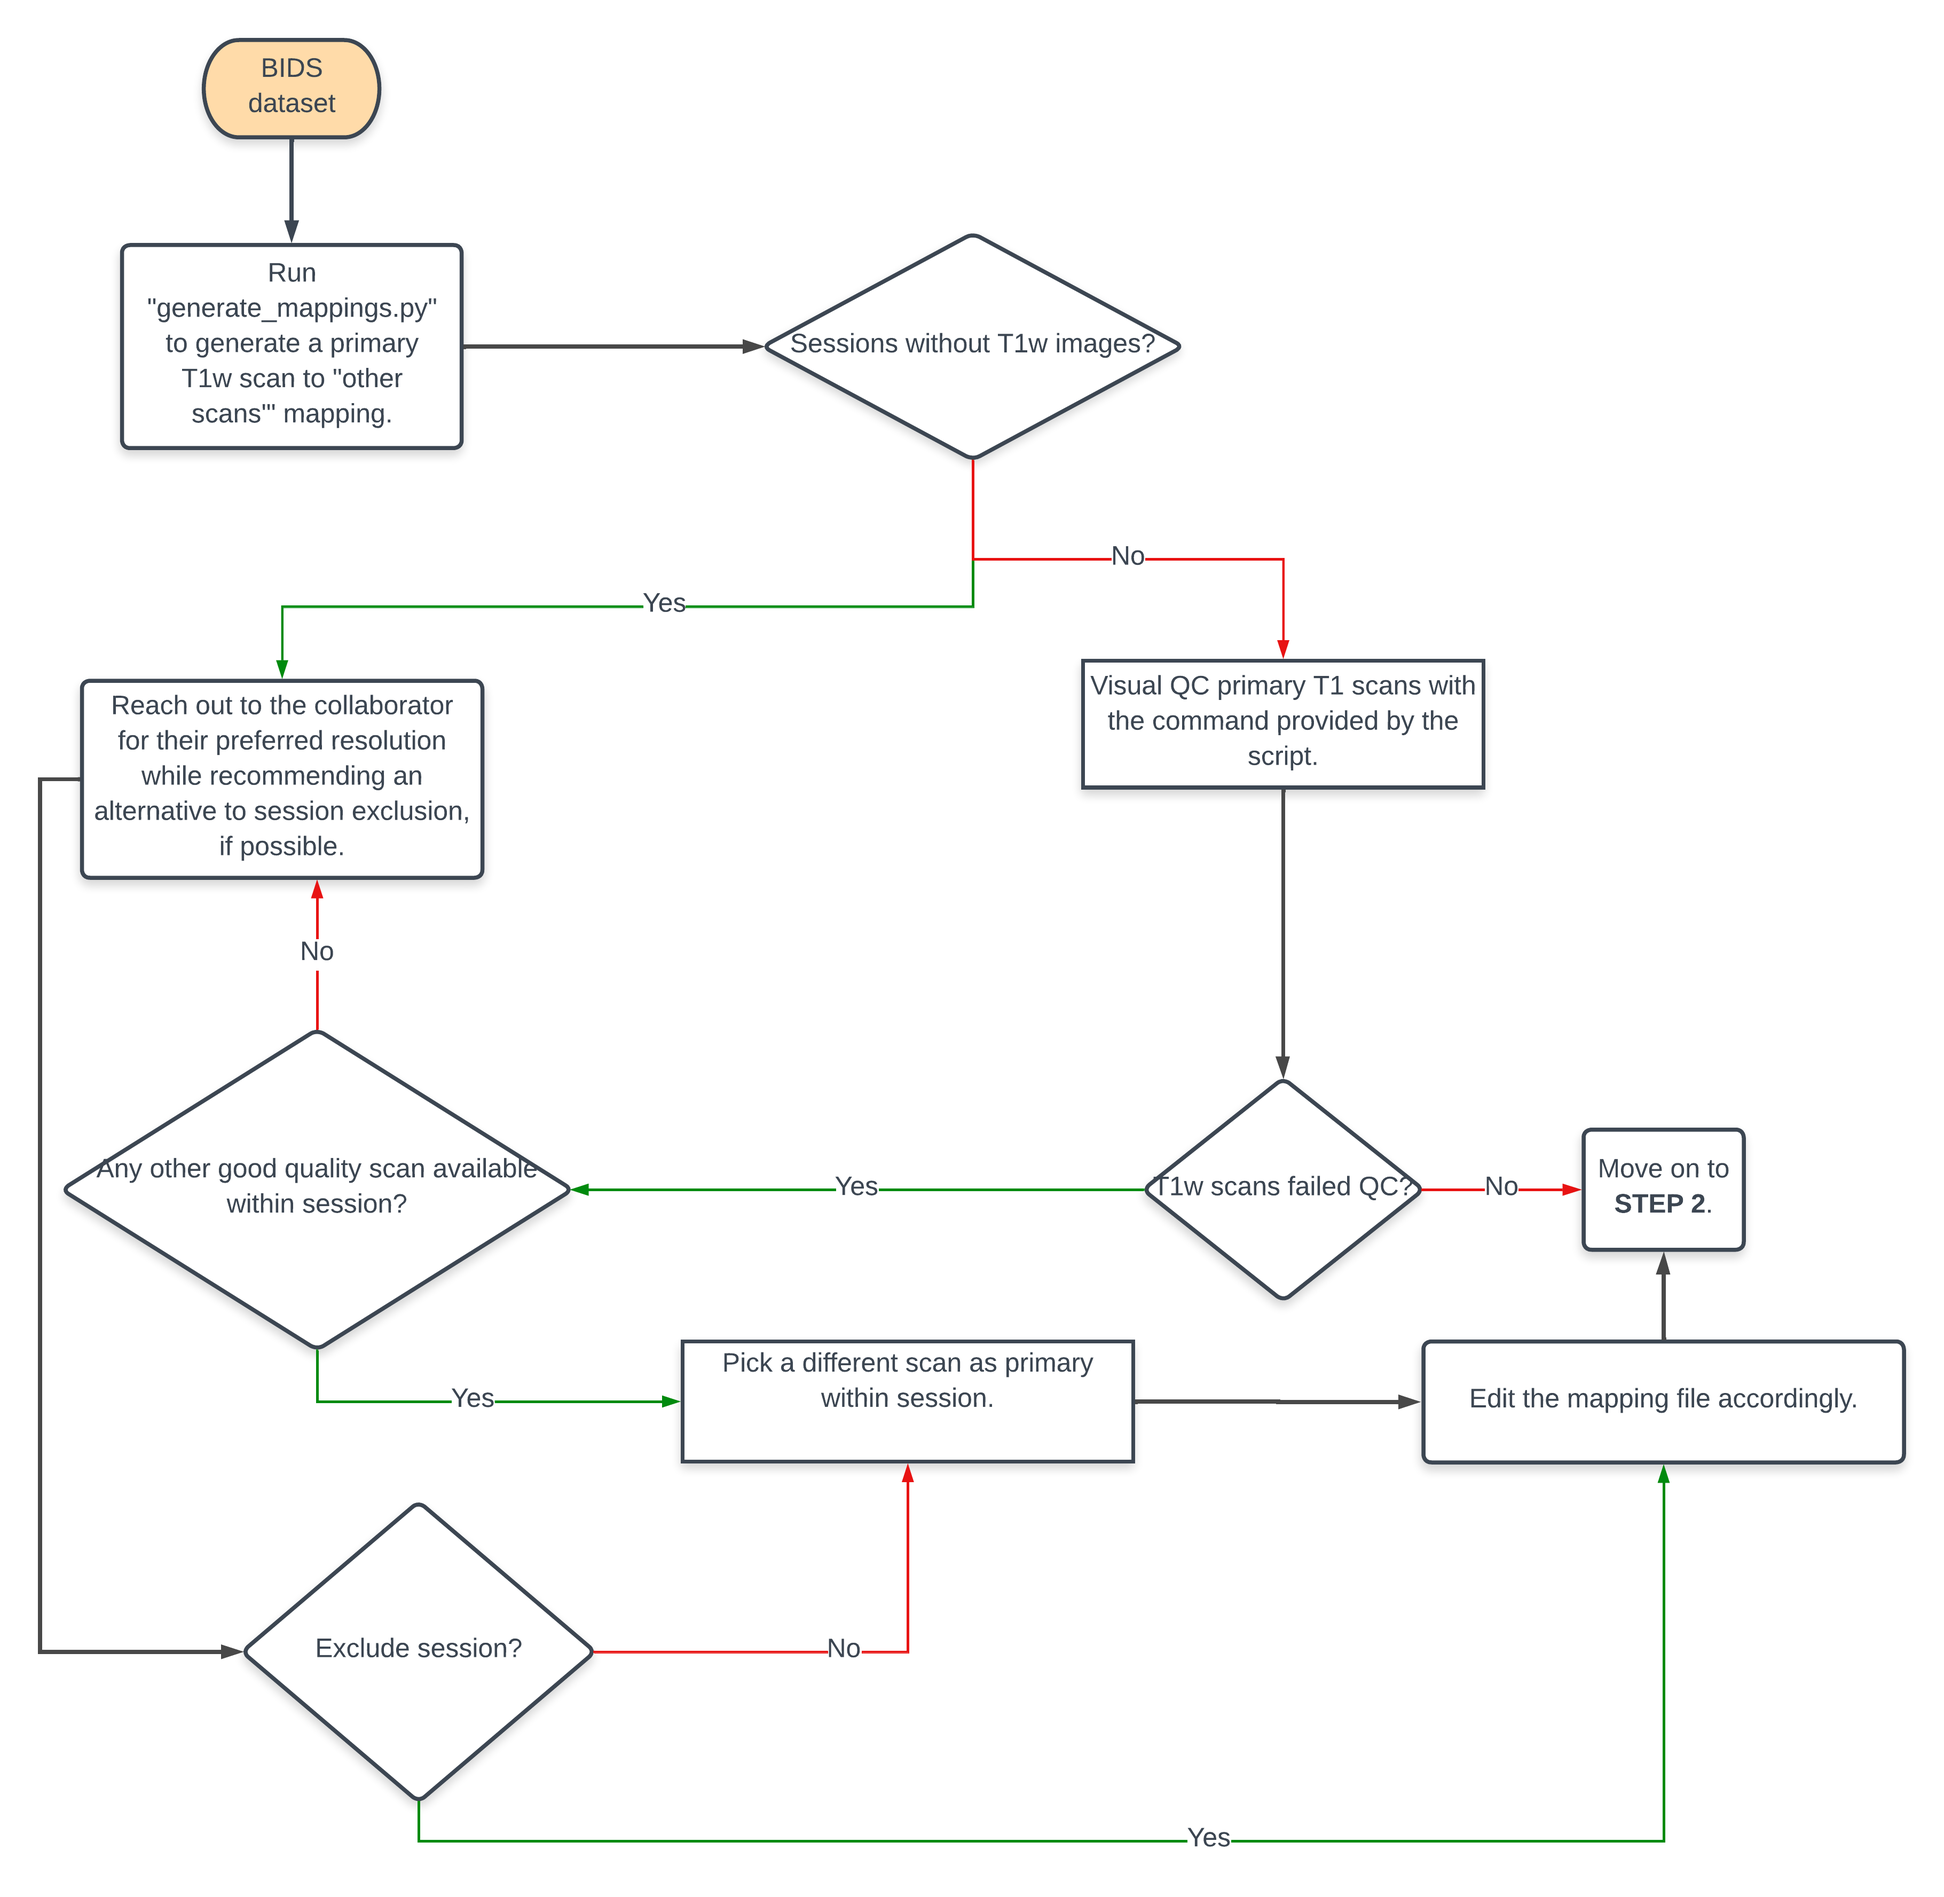
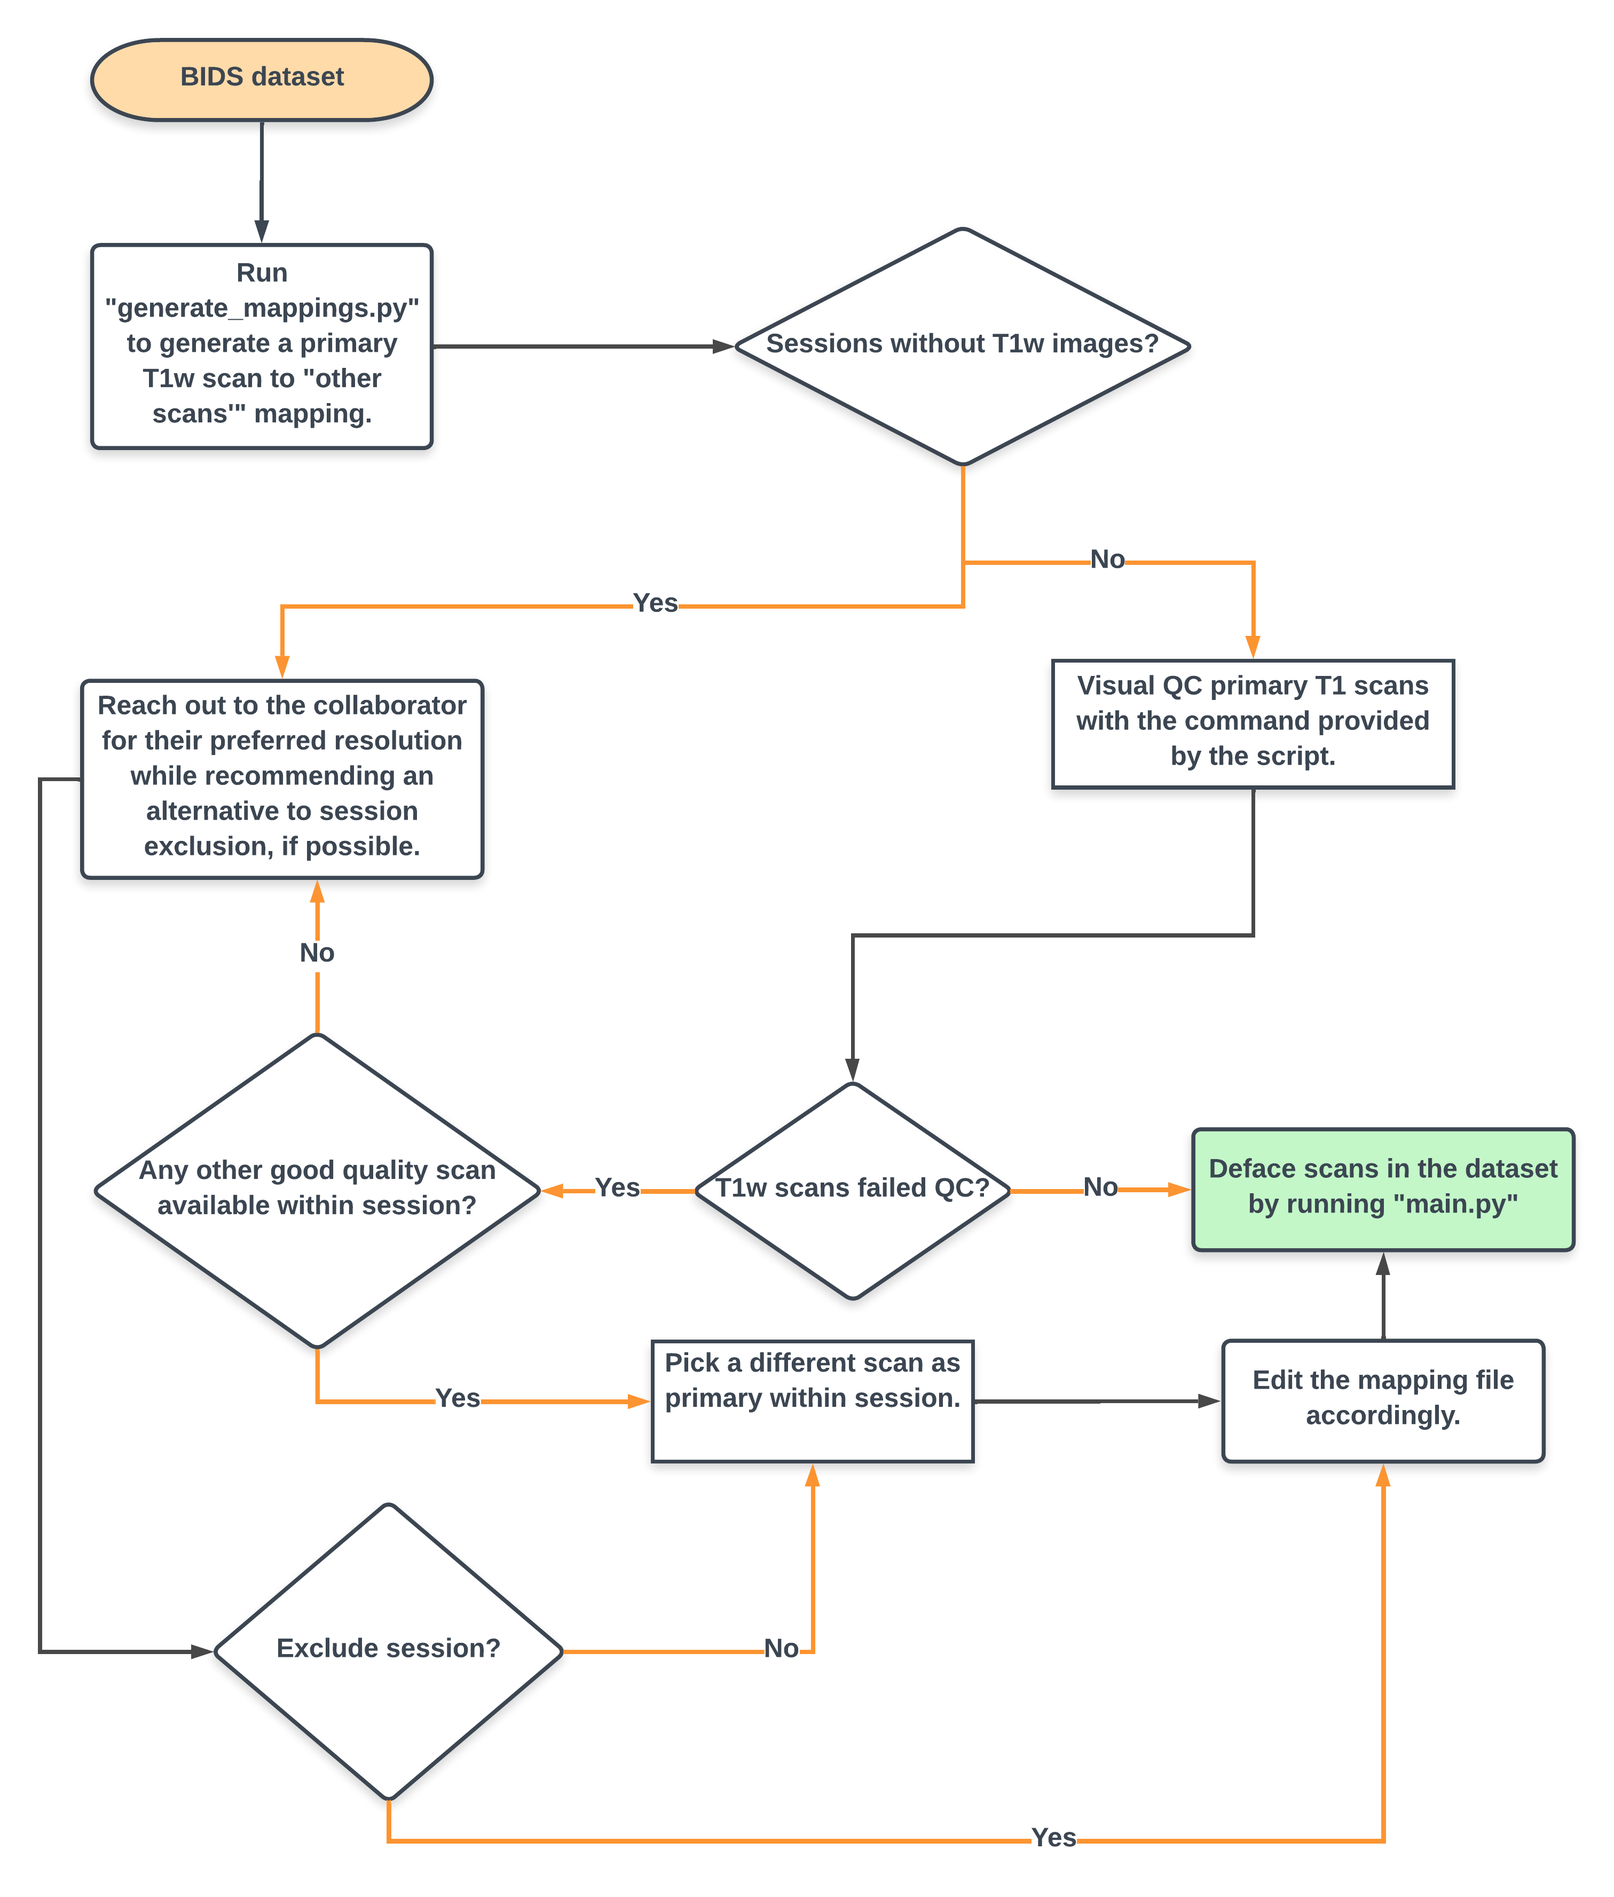
readme update

diff --git a/README.md b/README.md
@@ -1,133 +1,92 @@
 # DSST Defacing Workflow
 
-## Workflow Diagram
+The defacing workflow for datasets curated by the Data Science and Sharing Team will be completed in three major steps.
 
-### STEP 1
+1. Determine "primary" scans for each session in the dataset and ensure that they are good quality images.
+2. Deface primary scans
+   with [@afni_refacer_run](https://afni.nimh.nih.gov/pub/dist/doc/htmldoc/tutorials/refacer/refacer_run.html) program
+   developed by the AFNI Team. To deface remaining scans in the session, register them to the primary scan and use
+   it's defacemask to generate a defaced image.
+3. Visually QC defaced scans. For scans that fail QC, figure out how to fix them and if they can't be fixed, consider
+   excluding the scan from the dataset. @TODO Need a more specific SoP of sorts for this step.
+
+**NOTE:** It's assumed throughout this document that the input dataset to defacing algorithm is in BIDS valid format.
+
+## Terminology
+
+- **Primary Scan:** The best quality T1w scan within a session. For programmatic selection, we assume that the most
+  recently acquired T1w scan is of the best quality.
+- **Other/Secondary Scans:** All scans *except* the primary scan are grouped together and referred to as "other" or "
+  secondary" scans for a given session.
+- **[VisualQC](https://raamana.github.io/visualqc):** A suite of QC tools developed by Pradeep Ramanna, an associate
+  Professor at
+  University of Pittsburgh. While a noun, it's sometimes also used as a verb to refer to "QC-ing scans visually". Within
+  the team, a sentence like "We'll be Visual QC-ing primary scans." means that we'll eyeball-ing the primary scans using
+  VisualQC.
+
+## Workflow
+
+### STEP 1: Generate and finalize "primary" scans to "other" scans mapping file.
+
+The time and effort required to complete this step is highly dependent on the dataset. For example, some factors it
+might depend on are:
+
+1. Do all sessions within the dataset have a T1w scan associated with them? It might require a bit of back and forth
+   with the collaborator to figure how to deal with sessions without a T1w scan.
+2. What's the general quality of acquired scans? Might depend on the scanner used, age group of participants (children
+   might be prone to more head motion in the scanner than adults), QA/QC practices during acquisition, etc.
+
+Here's a flow chart of what this process might look like.
+
 ![Generate and finalize "primary" scans to "other" scans mapping file.](images/generate_mappings.png)
 
-1. Run [@afni_refacer_run](https://afni.nimh.nih.gov/pub/dist/doc/htmldoc/tutorials/refacer/refacer_run.html) on **a T1w scan per subject** of a given dataset. 
-2. [VisualQC](https://raamana.github.io/visualqc/gallery_defacing.html) defaced T1 images and correct/flag any that fail the QC Criteria. 
-3. Register other **T1w and non-T1w scans** of each subject to the T1w image in step 1 and apply its defacemask to the remaining scans. 
-4. QC the scans from 3 using [VisualQC Align](https://raamana.github.io/visualqc/gallery_defacing.html)
+**STEP 1 usage notes**
 
-## Instructions
-
-**Step 1:** Run `01_defacing_cmds_prep.py`
-Usage:
 ```bash
-python 01_defacing_cmds_prep.py -i <path/to/input/bids/dataset> -o <path/to/output/directory>
-```
-The script requires two arguments:
-  1. `-i/--input` Path to BIDS format dataset.
-  2. `-o/--output` Path to output directory where the defaced scans will be stored. 
-
-and outputs three files at `{OUTPUT_DIR}/script_outputs/`
-  1. a `.swarm` file named `defacing_commands_{INPUT_DIRNAME}.swarm` with commands to deface T1w scans using @afni_refacer_run
-  2. a `missing_t1.txt` file that lists subject-sessions that don't have an associated T1w scan.
-  3. a `primary_t1s_to_non-t1s_mapping.json` mapping file that maps each subject and session with their primary T1w scan and
-  a list of other T1w runs and non T1w scans. 
-     - **"primary_t1"** is a T1w scan within the subject's session that's defaced with @afni_refacer_run.
-     - **"other_scans"** refers to all other scans in the subject's session's `anat` directory apart from the T1 above. 
-  Here's an example:
-  ```json
-{
-  "sub-A": {
-    "ses-01": {
-      "primary_t1": "sub-A_ses-01_run-1_T1w.nii.gz",
-      "other_scans": [
-        "sub-A_ses-01_acq-axlowres_run-01_T2w.nii.gz",
-        "sub-A_ses-01_acq-axlowres_run-01_PDw.nii.gz"]
-    },
-    "ses-02": {
-      "primary_t1": "sub-A_ses-02_run-01_T1w.nii.gz",
-      "other_scans": [
-        "sub-A_ses-02_acq-axlowres_run-01_T2w.nii.gz",
-        "sub-A_ses-02_acq-axlowres_run-01_FLAIR.nii.gz"]
-    }
-  }
-}
 ```
 
-**Step 2:** Run `02_registration_and_masking_cmds_prep.py`
+### STEP 2: Actually deface scans.
 
-Usage:
+At this point, a big chunk of the job is done. Run `main.py` script that calls on `deface.py` and `register.py` to
+deface scans in the dataset.
+
+**STEP 2 usage notes**
+
 ```bash
-python 02_registration_and_masking_cmds_prep.py -i <path/to/input/bids/dataset> -o <path/to/output/directory> --mapping-file <path/to/json/file/mapping/primary/t1/to/other/scans>
 ```
 
-The script requires two arguments:
-1. `-i/--input` Path to BIDS format dataset.
-2. `-o/--output` Path to output directory where the defaced scans will be stored.
-3. `--mapping-file` Path to JSON file that maps 'primary T1s' to 'other scans'.
+### STEP 3: Visually QC defaced scans.
 
-and outputs two files at `{OUTPUT_DIR}/script_outputs/`
-1. a `.swarm` file named `registration_masking_commands_{INPUT_DIRNAME}.swarm` that contains commands to register "other_scans" to their respective "primary_t1" and apply primary_t1's defacemask to the registered scans using FSL tools.
-2. a `missing_afni_workdir.txt` file that lists "primary_t1" scans that (for whatever reason) failed to be defaced afni refacer run.
+**STEP 3 usage notes**
 
-**Step 3:** Generate 3D renders for VisualQC.
-
-@TODO
-- [ ] Add screenshots of visual qc deface as examples of the screen view. [Arsh]
-- [ ] Detail how to use 03_vqc_generate_renders script. [Arsh]
-- [ ] An example afni_workdir directory tree after generating renders. [Arsh]
-- [ ] Explain the Visual QC deface command and it's components. [Eric]
-- [ ] Similarly for Visual QC Align [Eric]
-
-## VisualQC Deface Prep Commands
-
-Following is a list of useful commands that were used in the process of defacing.
-
-  - **`fsleyes render`**
-
-      Offers more flexibility compared to `fsl_gen_3D`. 
-    
-      ```bash 
-      fsleyes render --scene 3d --rot 45 0 90 --outfile ${OUT}.png ${INPUT}.nii.gz -dr 30 250 -cr 30 500 -in spline -bf 0.225 -r 100 -ns 500
-      ```
-
-- **Resampling**
-
-    Anisotropic images were resampled to 1mm isotropic images to improve VisualQC's display. This is temporary fix while matplotlib's display issues can be resolved.
-
-    ```bash
-    for i in `cat as_visualqc_arsh.txt`; do 
-     for j in `ls $i/{tmp.00.INPUT.nii,tmp.99.result.deface.nii}`; do 
-      INPUT=$j; 
-      OUTPUT=$(echo $j | sed "s|.nii|_iso_1mm|g"); 
-      flirt -interp nearestneighbour -in ${INPUT} -ref ${INPUT} -applyisoxfm 1 -out ${OUTPUT}; 
-     done; 
-    done;
-    ```
-
-- **Launching VisualQC**
-
-    An example command to setup visualqc deface for autism subtypes dataset
-    ```bash
-    vqcdeface -u /data/NIMH_scratch/defacing_comparisons/autism_subtypes/defacing_outputs \
-    -m tmp.00.INPUT_iso_1mm.nii.gz -d tmp.99.result.deface_iso_1mm.nii.gz \
-    -r tmp.99.result.deface_iso_1mm_render \
-    -o visualqc -i as_visualqc_arsh.txt
-    ```
+```bash
+```
 
 ## Meeting Notes
-Links to documents used to jot down our thoughts/ideas in the process of testing various tools and procedures 
+
+Links to documents used to jot down our thoughts/ideas in the process of testing various tools and procedures
 
 - [Slides from early days of the Project](https://docs.google.com/presentation/d/1-eNBUjRG89kgq1sxaphNEqWQ3KZQ0kpeCfGQprqlqWo/edit#slide=id.g116908c6bac_0_0)
 
 ## Dealing with edge cases
+
 **@TODO**
-Add solutions or tweaks that the user could have in their arsenal when met with edge cases such as 
+Add solutions or tweaks that the user could have in their arsenal when met with edge cases such as
+
 - [ ] subject-sessions with no T1s.
-- [ ] anisotropic mri acquisitions are skewed in Visual QC. 
+- [ ] anisotropic mri acquisitions are skewed in Visual QC.
 
 ## Types of QC-failures we saw
+
 **@TODO**
-[ ]Add screenshots with example failures and a fix if available. 
+[ ]Add screenshots with example failures and a fix if available.
 
 ## References
+
 **@TODO**
-- [ ] Links to afni_refacer_run, fsl flirt, fslmaths and visual qc documents. 
-- [ ] other links with useful information about defacing example papers etc 
+
+- [ ] Links to afni_refacer_run, fsl flirt, fslmaths and visual qc documents.
+- [ ] other links with useful information about defacing example papers etc
 
 https://afni.nimh.nih.gov/afni/community/board/read.php?1,159053,159053#msg-159053
 
@@ -136,7 +95,9 @@ https://fsl.fmrib.ox.ac.uk/fsl/fslwiki/fsl_anat
 https://andysbrainbook.readthedocs.io/en/latest/fMRI_Short_Course/Preprocessing/Skull_Stripping.html
 
 ## Acknowledgements
-**@TODO** 
+
+**@TODO**
 Acknowledge
+
 - [ ] Pradeep Ramanna
 - [ ] Paul Taylor and AFNI team
